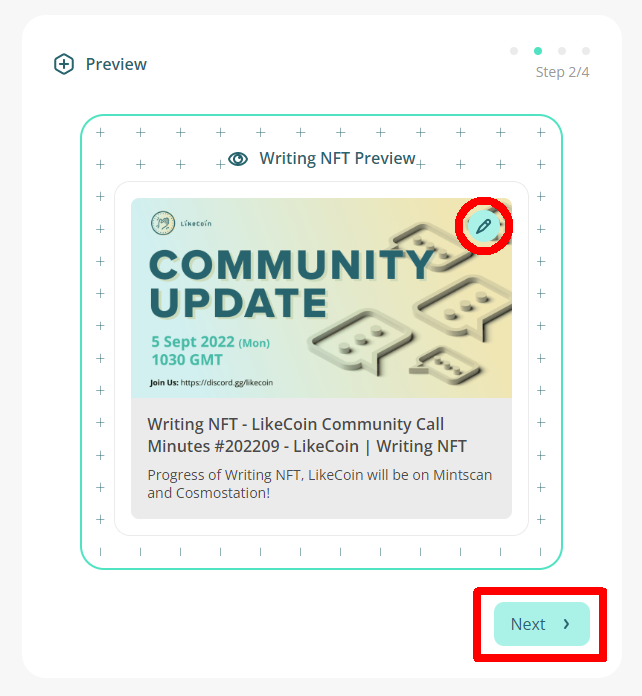
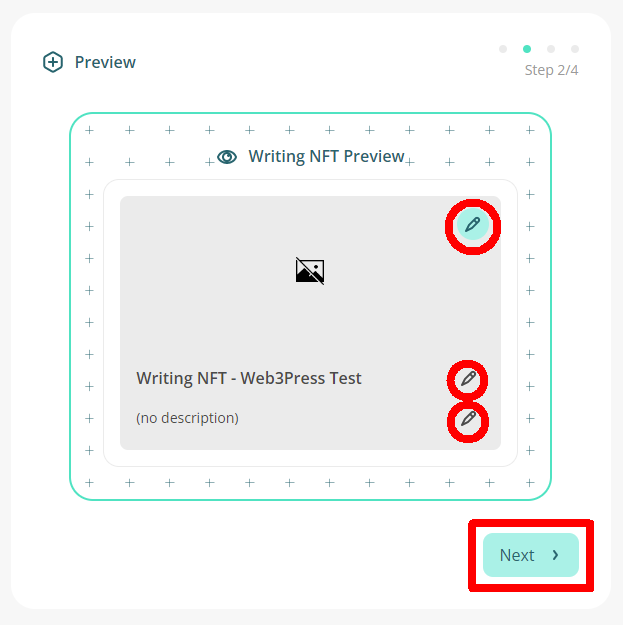
GITBOOK-4357: NFT Portal

Changed region(s): [[0.0915, 0.152, 0.9759, 0.9728], [0.061, 0.0608, 0.244, 0.1216], [0.8234, 0.0608, 0.9454, 0.1216]]

diff --git a/general-guides/writing-nft/nft-portal.md b/general-guides/writing-nft/nft-portal.md
@@ -78,7 +78,7 @@ The Keplr window pops up again, click "Approve".
 
 ### **Step 2/4: Preview NFT**
 
-Preview your Writing NFT. If you want to add or change the cover of the Writing NFT, click ":pencil2:". If you don't need to change it / the article has no picture, the default OG picture of the article will be displayed / no picture will be displayed. Click "Next" to continue.
+Preview your Writing NFT. If you want to add or change the cover of the Writing NFT, click ":pencil2:". If you don't need to change it / the article has no picture, the default OG picture of the article will be displayed / no picture will be displayed. You can also click ":pencil2:" to change the Title and description of your Writing NFT. Then click "Next" to continue.
 
 <figure><img src="../../.gitbook/assets/NFT Portal 5.png" alt=""><figcaption></figcaption></figure>
 
